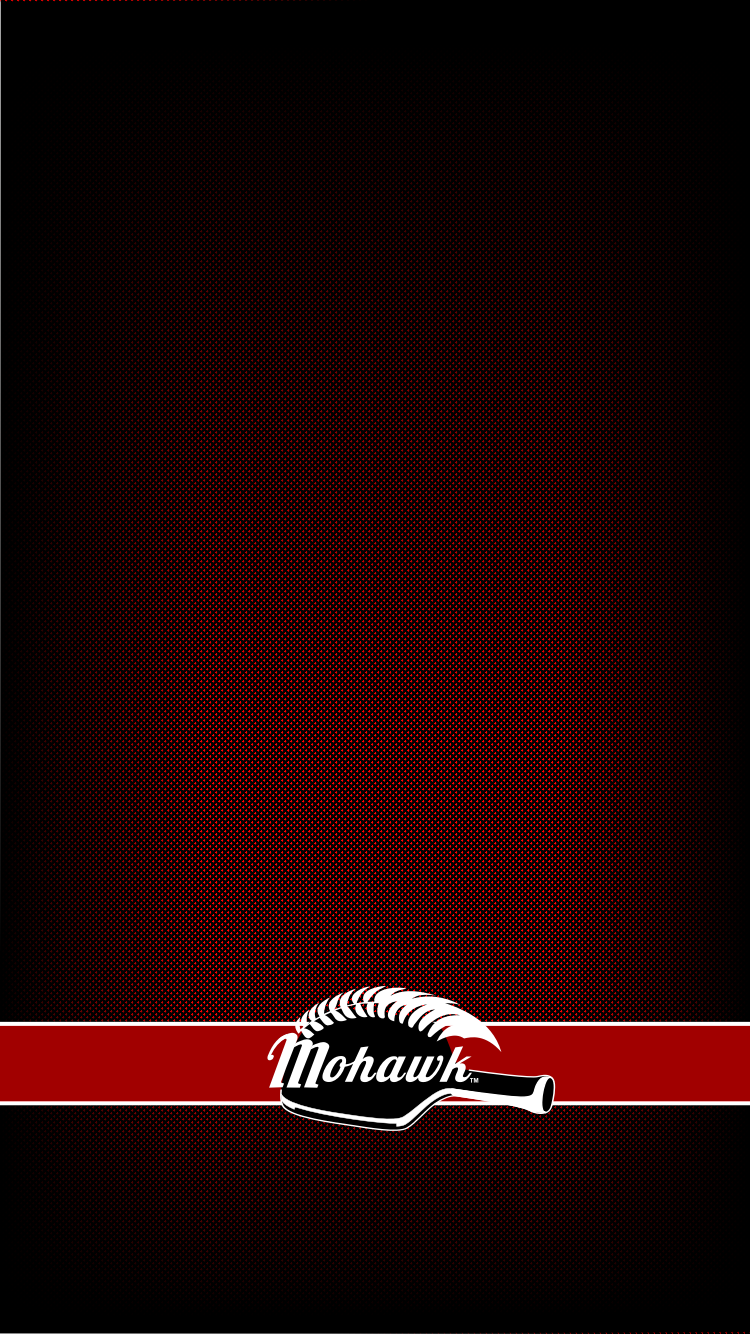
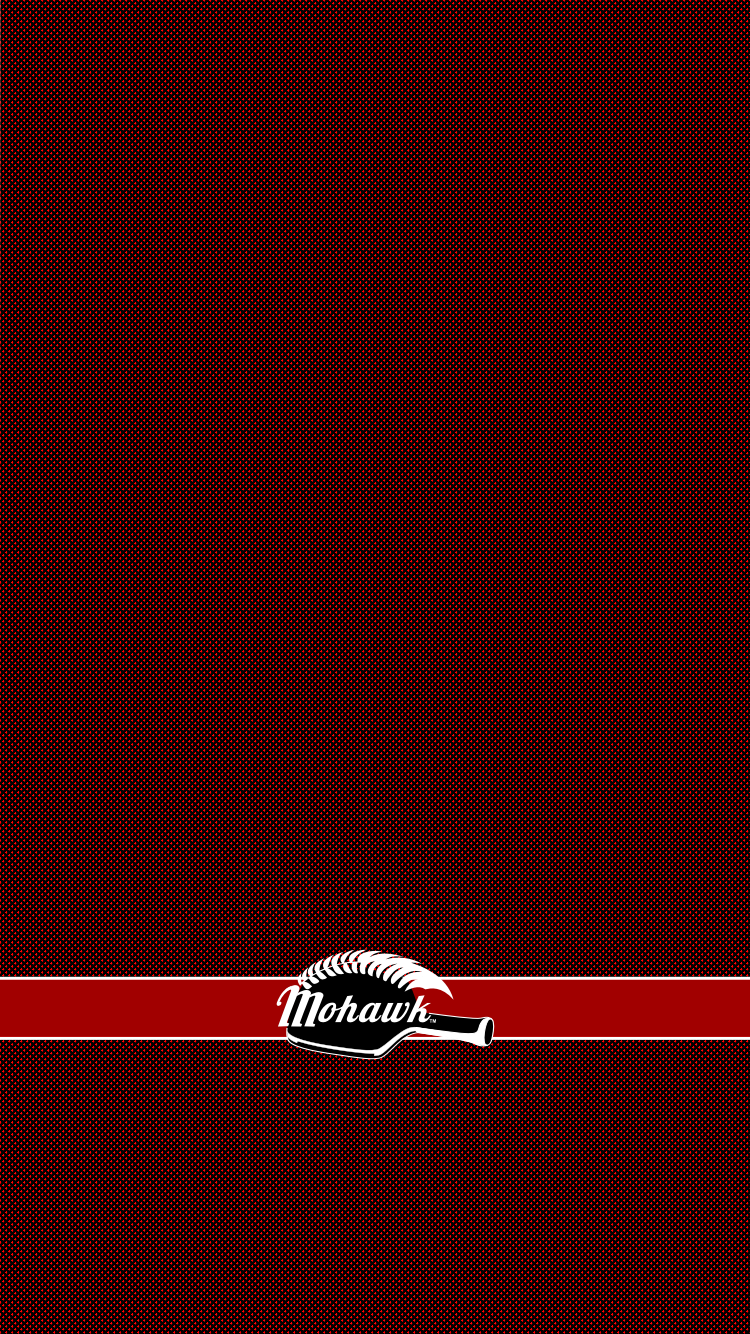
fix bg v1.0.3

Changed region(s): [[0.0, 0.0, 1.0, 1.0]]

diff --git a/index.html b/index.html
@@ -46,7 +46,7 @@
         </div>
     </div>
     <footer class="footer">
-        <p style="font-size: 0.8em">&copy; 2025 Mohawk Tape Ltd| NZBN 9429052537066 | All Rights Reserved | v1.0.2 <a href="main.html">beta</a></p>
+        <p style="font-size: 0.8em">&copy; 2025 Mohawk Tape Ltd| NZBN 9429052537066 | All Rights Reserved | v1.0.3 <a href="main.html">beta</a></p>
     </footer>
 </div>
 <script>

diff --git a/assets/styles.css b/assets/styles.css
@@ -285,8 +285,8 @@ p {
 /*resize*/
 @media (max-width: 768px) { /* Target iPhone and similar devices */
     .background{
-        /*width: 750px;*/
-        /*height: 1334px;*/
+        width: 750px;
+        height: 1334px;
         background: url('./images/background-750x1334.png') no-repeat center top;
     }
     .background-mask{
